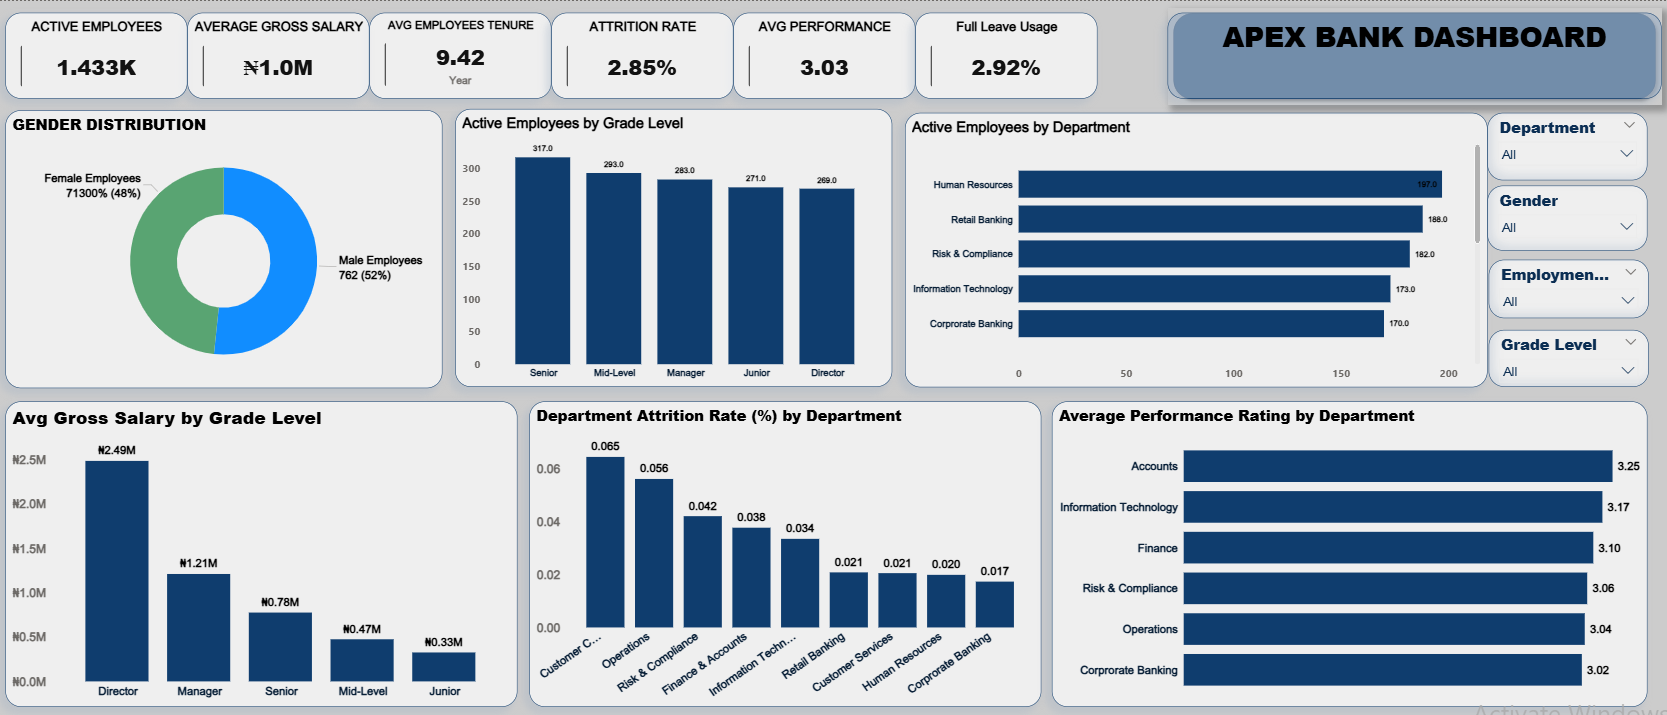
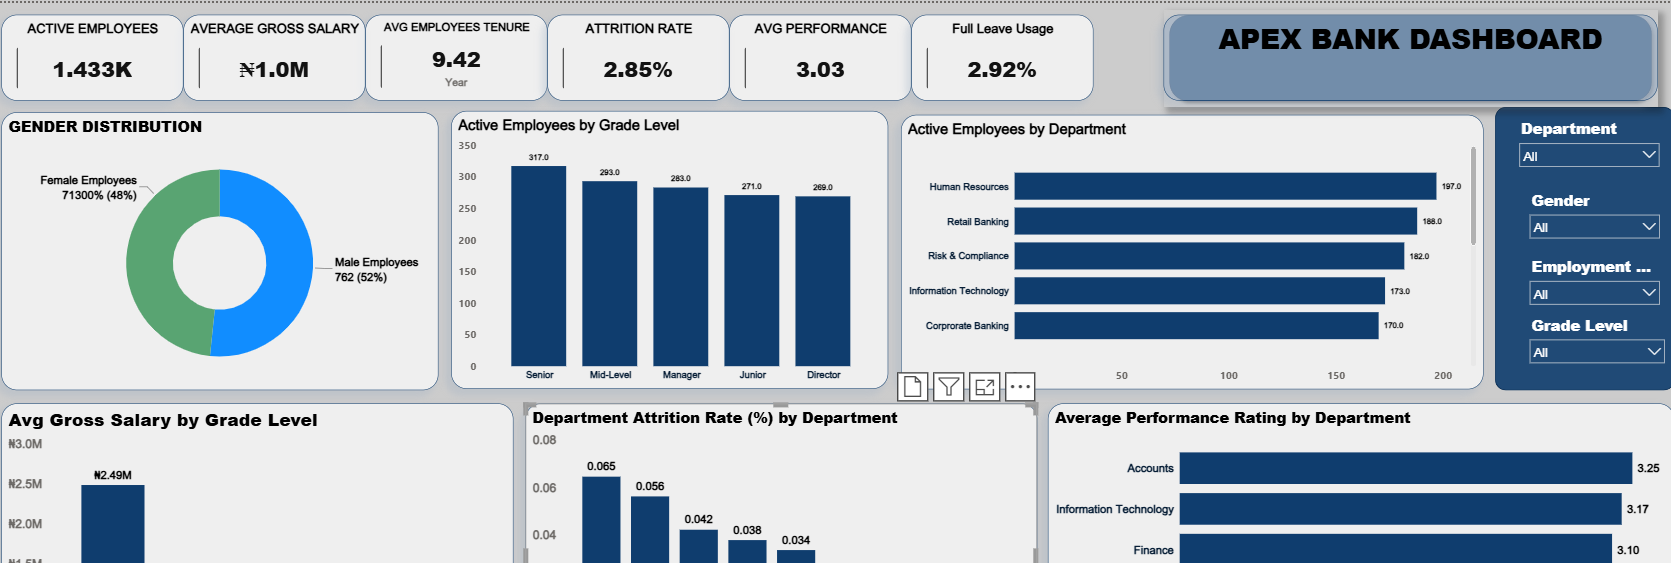
project added and casestudy updated

diff --git a/client/src/pages/CaseStudy.tsx b/client/src/pages/CaseStudy.tsx
@@ -88,7 +88,7 @@ export default function CaseStudy() {
       image: "/projects/salary-dashboard.png",
       client: "Personal Project",
       industry: "Data Analytics",
-      duration: "3 weeks",
+      duration: "1 weeks",
       team: "Solo analyst",
       technologies: ["Microsoft Excel", "Advanced Formulas", "Data Validation", "Charts", "Pivot Tables"],
       githubUrl: "https://github.com/ZACCH0/Data_Science_Salary_Dashboard",
@@ -150,6 +150,78 @@ export default function CaseStudy() {
       ],
       testimonial: {
         text: "This was my most technically demanding Excel project. Building a full ETL pipeline, a relational data model, and writing DAX measures from scratch gave me a genuine understanding of how business intelligence works — not just how to make a chart.",
+        author: "Alade Zaccheous",
+        role: "Data Analyst"
+      }
+       },
+    "apex-bank-analysis": {
+      id: "apex-bank-analysis",
+      title: "ApexBank Analysis",
+      subtitle: "End-to-End Power BI Analytics Using Power Query & DAX",
+      image: "/projects/ApexBank.png",
+      client: "Personal Project",
+      industry: "Data Analytics",
+      duration: "1 weeks",
+      team: "TechCrush Project",
+      technologies: ["Power BI", "Power Query","DAX","Pivot Charts", "Slicers"],
+      githubUrl: "https://github.com/ZACCH0/JOB-SKILLS_AND-SALARY-ANALYSIS",
+      overview: "A comprehensive Excel analytics project that examines the relationship between job skills and salaries across the data industry. Using a full ETL pipeline via Power Query, a relational data model in Power Pivot, and DAX measures, the project answers four key business questions about which skills are in demand, which pay the most, and how salary trends differ by country and role.",
+      challenges: [
+        { title: "Multi-Table Data Modelling", description: "The raw data was split across two separate datasets — job salary info and job skills info — which needed to be cleaned separately, then related through a shared key." },
+        { title: "ETL Pipeline Design", description: "Building a repeatable Extract, Transform, Load process to clean both datasets — removing duplicates, fixing data types, trimming whitespace — before loading them into the data model." },
+        { title: "Writing DAX Measures", description: "Calculating median salaries across different filters (global, US-only, non-US) required writing precise DAX measures inside Power Pivot rather than relying on standard Pivot Table aggregations." },
+        { title: "Answering Business Questions with Visuals", description: "Translating analytical findings into clear Pivot Charts and slicer-driven dashboards that communicate insights to a non-technical audience." }
+      ],
+      solutions: [
+        { title: "Power Query ETL Pipeline", description: "Created two separate Power Query queries — data_jobs_salary and data_jobs_skills2 — applying transformations including type corrections, column removal, text standardization, and duplicate checks before loading both into the Excel Data Model." },
+        { title: "Power Pivot Relational Model", description: "Built a relationship between the two tables using job_id as the connecting key inside Power Pivot, enabling cross-table analysis of skills and salaries in a single model." },
+        { title: "DAX Measures for Salary Analysis", description: "Wrote three DAX measures — Median Salary, Median Salary US, and Median Salary Non-US — using MEDIAN and CALCULATE functions to compare compensation across geographies and roles." },
+        { title: "Interactive Pivot Charts & Slicers", description: "Built Pivot Charts for skill demand vs. salary and added Country and Job Title slicers, enabling users to dynamically filter all visuals simultaneously." }
+      ],
+      results: [
+        { metric: "SQL #1", description: "Most in-demand skill — appeared in ~65% of Data Analyst job postings" },
+        { metric: "Spark", description: "Highest median salary among all analyzed skills" },
+        { metric: "3 DAX Measures", description: "Global, US, and Non-US median salary calculations" },
+        { metric: "Full ETL", description: "End-to-end Power Query pipeline from raw data to clean data model" }
+      ],
+      testimonial: {
+        text: "This was my most technically demanding Power BI project. Building a full ETL pipeline, a relational data model, and writing DAX measures from scratch gave me a genuine understanding of how business intelligence works — not just how to make a chart.",
+        author: "Alade Zaccheous",
+        role: "Data Analyst"
+      }
+    },
+    "hospital-dashboard": {
+      id: "apex-bank-analysis",
+      title: "Hostpital Management Dashboard",
+      subtitle: "Power BI Analytics Using Power Query & DAX",
+      image: "/projects/hospital-dashboard.png",
+      client: "Personal Project",
+      industry: "Data Analytics",
+      duration: "6 days",
+      team: "TechCrush",
+      technologies: ["Power BI", "Power Query","DAX","Pivot Charts", "Slicers"],
+      githubUrl: "https://github.com/ZACCH0/JOB-SKILLS_AND-SALARY-ANALYSIS",
+      overview: "A comprehensive Excel analytics project that examines the relationship between job skills and salaries across the data industry. Using a full ETL pipeline via Power Query, a relational data model in Power Pivot, and DAX measures, the project answers four key business questions about which skills are in demand, which pay the most, and how salary trends differ by country and role.",
+      challenges: [
+        { title: "Multi-Table Data Modelling", description: "The raw data was split across two separate datasets — job salary info and job skills info — which needed to be cleaned separately, then related through a shared key." },
+        { title: "ETL Pipeline Design", description: "Building a repeatable Extract, Transform, Load process to clean both datasets — removing duplicates, fixing data types, trimming whitespace — before loading them into the data model." },
+        { title: "Writing DAX Measures", description: "Calculating median salaries across different filters (global, US-only, non-US) required writing precise DAX measures inside Power Pivot rather than relying on standard Pivot Table aggregations." },
+        { title: "Answering Business Questions with Visuals", description: "Translating analytical findings into clear Pivot Charts and slicer-driven dashboards that communicate insights to a non-technical audience." }
+      ],
+      solutions: [
+        { title: "Power Query ETL Pipeline", description: "Created two separate Power Query queries — data_jobs_salary and data_jobs_skills2 — applying transformations including type corrections, column removal, text standardization, and duplicate checks before loading both into the Excel Data Model." },
+        { title: "Power Pivot Relational Model", description: "Built a relationship between the two tables using job_id as the connecting key inside Power Pivot, enabling cross-table analysis of skills and salaries in a single model." },
+        { title: "DAX Measures for Salary Analysis", description: "Wrote three DAX measures — Median Salary, Median Salary US, and Median Salary Non-US — using MEDIAN and CALCULATE functions to compare compensation across geographies and roles." },
+        { title: "Interactive Pivot Charts & Slicers", description: "Built Pivot Charts for skill demand vs. salary and added Country and Job Title slicers, enabling users to dynamically filter all visuals simultaneously." }
+      ],
+      results: [
+        { metric: "SQL #1", description: "Most in-demand skill — appeared in ~65% of Data Analyst job postings" },
+        { metric: "Spark", description: "Highest median salary among all analyzed skills" },
+        { metric: "3 DAX Measures", description: "Global, US, and Non-US median salary calculations" },
+        { metric: "Full ETL", description: "End-to-end Power Query pipeline from raw data to clean data model" }
+      ],
+      testimonial: {
+        text: "This was my most technically demanding Power BI project. Building a full ETL pipeline, a relational data model, and writing DAX measures from scratch gave me a genuine understanding of how business intelligence works — not just how to make a chart.",
         author: "Alade Zaccheous",
         role: "Data Analyst"
       }

diff --git a/client/src/pages/Home.tsx b/client/src/pages/Home.tsx
@@ -441,6 +441,28 @@ export default function Home() {
       link: "https://github.com/ZACCH0/JOB-SKILLS_AND-SALARY-ANALYSIS",
       github: "https://github.com/ZACCH0/JOB-SKILLS_AND-SALARY-ANALYSIS",
     },
+      {
+      id: 5,
+      title: "ApexBank Analysis",
+      description: "A Power BI Analytics project examining in-demand skills and salary trends across data roles and countries, using Power Query (ETL), Power Pivot, DAX measures, and interactive slicers.",
+      image: "/projects/ApexBank.png",
+      tags: ["Power BI", "Power Query", "DAX", "Visualization"],
+      category: "data",
+      caseStudyId: "apex-bank-analysis",
+      link: "https://github.com/ZACCH0/JOB-SKILLS_AND-SALARY-ANALYSIS",
+      github: "https://github.com/ZACCH0/JOB-SKILLS_AND-SALARY-ANALYSIS",
+    },
+     {
+      id: 6,
+      title: "Hospital Management Analysis",
+      description: "A Power BI Analytics project examining in-demand skills and salary trends across data roles and countries, using Power Query (ETL), Power Pivot, DAX measures, and interactive slicers.",
+      image: "/projects/hospital-dashboard.png",
+      tags: ["Power BI", "Power Query", "DAX", "Visualization"],
+      category: "data",
+      caseStudyId: "hospital-dashboard",
+      link: "https://github.com/ZACCH0/JOB-SKILLS_AND-SALARY-ANALYSIS",
+      github: "https://github.com/ZACCH0/JOB-SKILLS_AND-SALARY-ANALYSIS",
+    },
   ];
 
   const ProjectsSection = () => {
@@ -673,6 +695,14 @@ export default function Home() {
       date: "Apr 22, 2026",
       category: "Data Cleaning",
     },
+
+    {
+      id: 7,
+      title: "Tech Crush Data Analyst Journey",
+      excerpt: "I jot Admission Into TechCrush on April 28 where I Started to Exploring Data Analysis as a career techcrush Expirence has help me a lot and I started thinking As Data Analyst",
+      date: "Apr 28, 2026",
+      category: "Data Analysis",
+    },
   ];
 
   const BlogSection = () => (
@@ -834,7 +864,7 @@ export default function Home() {
                   </div>
                   <div>
                     <p className="text-slate-400 text-sm">LinkedIn</p>
-                    <a href="https://linkedin.com/in/alade-zaccheous" target="_blank" rel="noopener noreferrer" className="text-white font-medium hover:text-blue-400 transition-colors">
+                    <a href="https://linkedin.com/in/zacchtech" target="_blank" rel="noopener noreferrer" className="text-white font-medium hover:text-blue-400 transition-colors">
                       linkedin.com/in/zacchtech/
                     </a>
                   </div>